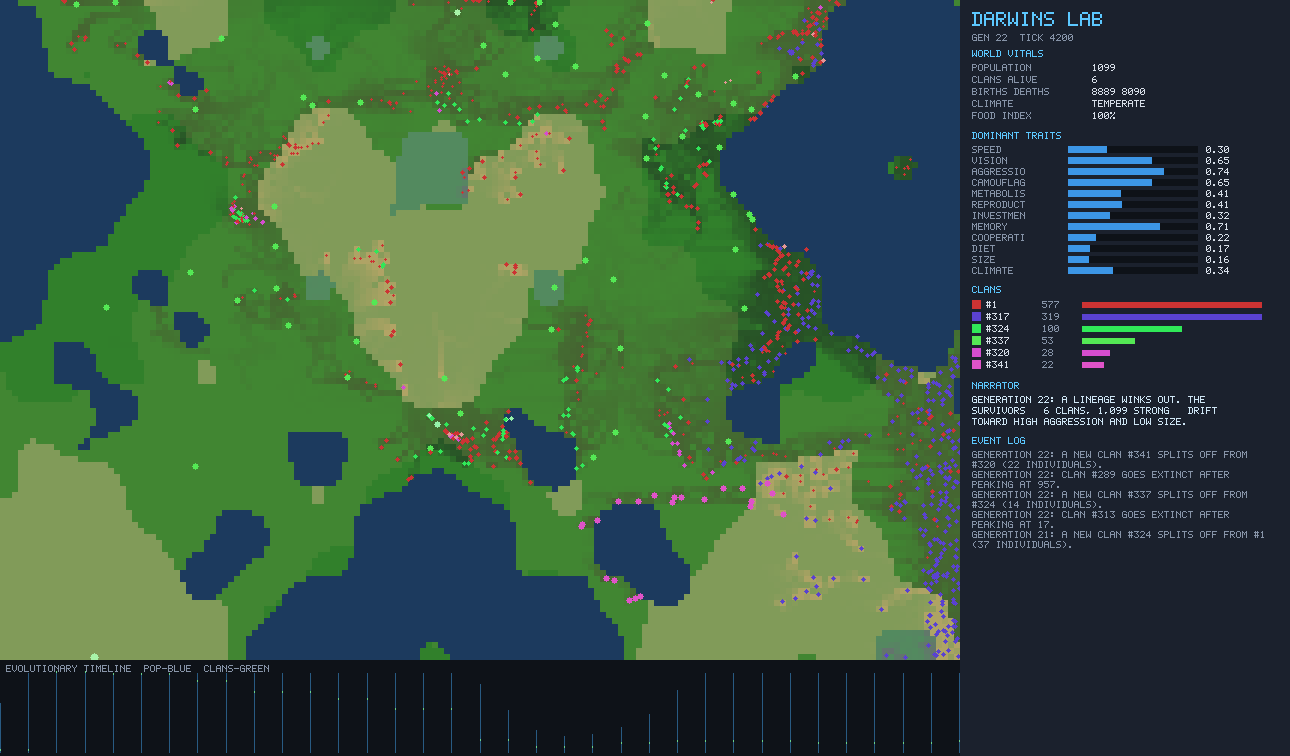
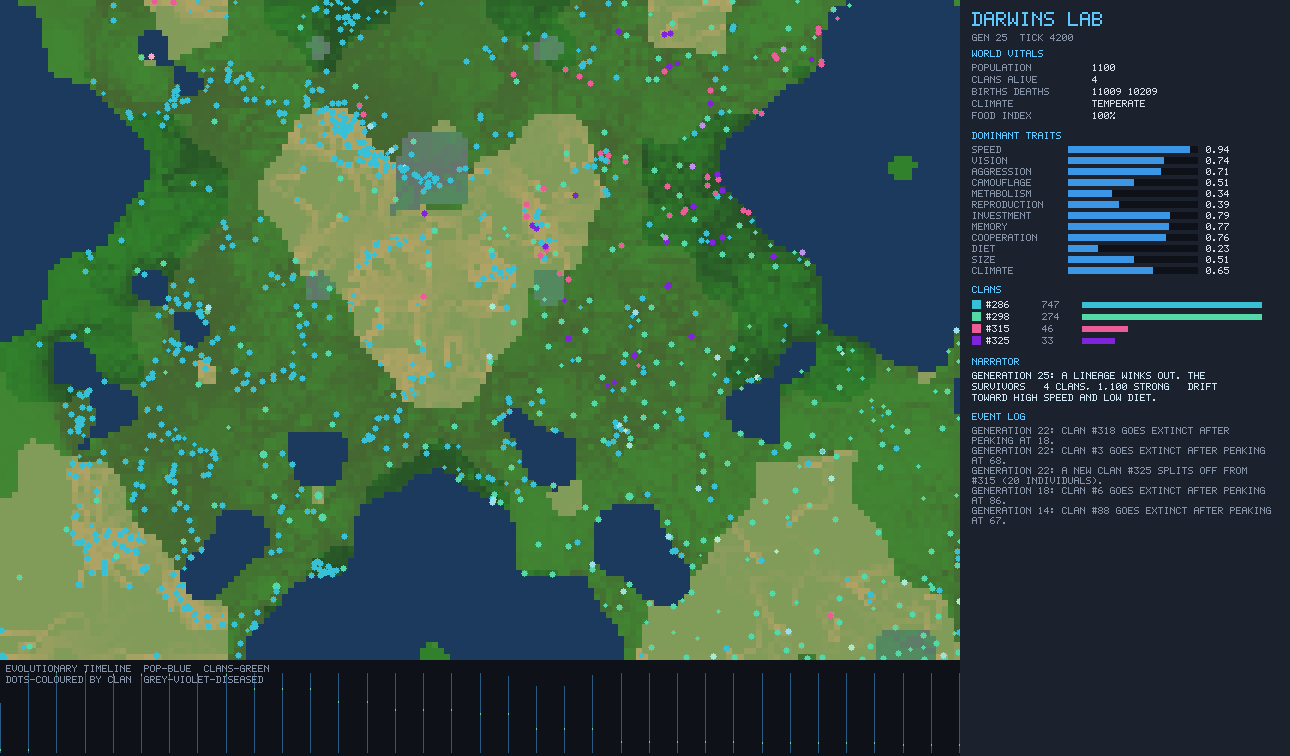
Make aggression a selected trait + add clan phylogeny panel
Aggression now has a real cost (metabolic burn) and real payoffs
(standing ground vs predators, wounding failed attackers, winning
contested food), so it is driven by selection — visibly low without
predators and rising under predation — instead of neutral drift.

Adds a Clan Phylogeny panel: an interactive family tree of lineages
plotted by birth time, living clans bright and extinct ones faded.

diff --git a/src/ui/Phylogeny.tsx b/src/ui/Phylogeny.tsx
@@ -1,0 +1,143 @@
+import { useMemo } from "react";
+import { useLab } from "../store";
+import type { Species } from "../sim/types";
+
+interface Node {
+  sp: Species;
+  children: Node[];
+  row: number;
+}
+
+/**
+ * The clan family tree. Each clan is plotted by birth time (x) with parent→
+ * child branches; living clans glow, extinct ones fade. This is the "lineages
+ * branch, dominate, and die out" story made literal.
+ */
+export function Phylogeny() {
+  const speciesById = useLab((s) => s.snapshot?.speciesById);
+  const tick = useLab((s) => s.snapshot?.stats.tick ?? 1);
+  const select = useLab((s) => s.select);
+
+  const { nodes, links, W, H, t0 } = useMemo(() => {
+    const all = Object.values(speciesById ?? {});
+    // Keep clans that actually mattered, so the tree stays legible.
+    const keep = all.filter((s) => s.peakPopulation >= 12);
+    const byId = new Map(keep.map((s) => [s.id, s]));
+    const nodeById = new Map<number, Node>();
+    for (const sp of keep) nodeById.set(sp.id, { sp, children: [], row: 0 });
+    const roots: Node[] = [];
+    for (const n of nodeById.values()) {
+      const p = n.sp.parentId != null ? nodeById.get(n.sp.parentId) : undefined;
+      if (p && byId.has(n.sp.parentId!)) p.children.push(n);
+      else roots.push(n);
+    }
+
+    let row = 0;
+    const assign = (n: Node) => {
+      n.children.sort((a, b) => a.sp.bornTick - b.sp.bornTick);
+      if (n.children.length === 0) {
+        n.row = row++;
+        return;
+      }
+      n.children.forEach(assign);
+      n.row = n.children.reduce((s, c) => s + c.row, 0) / n.children.length;
+    };
+    roots.sort((a, b) => a.sp.bornTick - b.sp.bornTick);
+    roots.forEach(assign);
+
+    const t0 = Math.min(...keep.map((s) => s.bornTick), 0);
+    const span = Math.max(1, tick - t0);
+    const W = 320;
+    const rowH = 16;
+    const H = Math.max(40, row * rowH + 16);
+    const x = (t: number) => 6 + ((t - t0) / span) * (W - 14);
+    const y = (r: number) => 10 + r * rowH;
+
+    const nodes = [...nodeById.values()].map((n) => ({
+      id: n.sp.id,
+      color: n.sp.color,
+      alive: n.sp.extinctTick === undefined && n.sp.population > 0,
+      x1: x(n.sp.bornTick),
+      x2: x(n.sp.extinctTick ?? tick),
+      y: y(n.row),
+      pop: n.sp.population,
+      peak: n.sp.peakPopulation,
+    }));
+    const links: { x1: number; y1: number; x2: number; y2: number; color: string }[] = [];
+    for (const n of nodeById.values()) {
+      for (const ch of n.children) {
+        links.push({
+          x1: x(n.sp.bornTick),
+          y1: y(n.row),
+          x2: x(ch.sp.bornTick),
+          y2: y(ch.row),
+          color: ch.sp.color,
+        });
+      }
+    }
+    return { nodes, links, W, H, t0 };
+  }, [speciesById, tick]);
+
+  if (nodes.length === 0) {
+    return (
+      <div className="card muted tiny">Phylogeny — clans appear here as they diverge…</div>
+    );
+  }
+
+  return (
+    <div className="card">
+      <h3>Clan Phylogeny</h3>
+      <div className="tiny muted" style={{ marginBottom: 6 }}>
+        {nodes.length} notable lineages · left = older · bright = alive
+      </div>
+      <svg
+        viewBox={`0 0 ${W} ${H}`}
+        style={{ width: "100%", height: Math.min(260, H), display: "block" }}
+      >
+        {links.map((l, i) => (
+          <path
+            key={i}
+            d={`M${l.x1},${l.y1} C${(l.x1 + l.x2) / 2},${l.y1} ${(l.x1 + l.x2) / 2},${l.y2} ${l.x2},${l.y2}`}
+            fill="none"
+            stroke={l.color}
+            strokeOpacity={0.45}
+            strokeWidth={1}
+          />
+        ))}
+        {nodes.map((n) => (
+          <g key={n.id} style={{ cursor: "default" }}>
+            <line
+              x1={n.x1}
+              y1={n.y}
+              x2={n.x2}
+              y2={n.y}
+              stroke={n.color}
+              strokeWidth={n.alive ? 2.4 : 1.2}
+              strokeOpacity={n.alive ? 1 : 0.4}
+            />
+            <circle
+              cx={n.x1}
+              cy={n.y}
+              r={2.4}
+              fill={n.color}
+              fillOpacity={n.alive ? 1 : 0.5}
+            />
+            {n.alive && (
+              <circle cx={n.x2} cy={n.y} r={Math.min(5, 2 + n.pop / 120)} fill={n.color}>
+                <title>
+                  Clan #{n.id} — {n.pop} alive (peaked {n.peak})
+                </title>
+              </circle>
+            )}
+          </g>
+        ))}
+      </svg>
+      <div className="legend" style={{ marginTop: 4 }}>
+        <span className="muted">node size = current population · t₀ = tick {t0}</span>
+        <button className="btn tiny" onClick={() => select(null)}>
+          clear selection
+        </button>
+      </div>
+    </div>
+  );
+}

diff --git a/src/sim/simulation.ts b/src/sim/simulation.ts
@@ -217,9 +217,13 @@ export class Simulation {
       const oCarn = o.genome.diet > 0.55;
 
       if (oCarn && o.genome.size >= g.size * 0.85 && d < threatDist) {
-        // A predator big enough to matter — flee from it.
+        // A predator big enough to matter. Most prey flee — but a big,
+        // aggressive creature may instead stand its ground and fight back,
+        // which is what makes aggression a real (costly) strategy under
+        // predation rather than neutral drift.
         threatDist = d;
-        if (g.aggression < 0.7 || isCarn === false) {
+        const stand = g.aggression * g.size;
+        if (stand < 0.32 || this.rng.next() > stand) {
           targetX = c.x - dx;
           targetY = c.y - dy;
         }
@@ -295,6 +299,7 @@ export class Simulation {
       g.metabolism * 0.16 +
       g.speed * 0.05 +
       g.size * 0.06 +
+      g.aggression * 0.035 + // aggression is metabolically expensive to keep
       climateMiss * 0.14 +
       (c.sick > 0 ? 0.12 : 0);
     c.energy -= burn;
@@ -304,7 +309,10 @@ export class Simulation {
       const fi = w.idxAt(c.x, c.y);
       const avail = w.food[fi];
       if (avail > 0.05) {
-        const bite = Math.min(avail, 0.6 + g.size * 0.5);
+        // In a crowded patch the more aggressive creature wins the scrum and
+        // takes a bigger bite — aggression's payoff when food is contested.
+        const contest = crowding > 2 ? 0.55 + g.aggression * 0.6 : 1;
+        const bite = Math.min(avail, (0.6 + g.size * 0.5) * contest);
         w.food[fi] -= bite;
         c.energy += bite * (1 - g.diet) * 1.75;
         c.memX = c.x;
@@ -318,10 +326,17 @@ export class Simulation {
     if (isCarn && preyRef && preyDist < 6) {
       const prey = preyRef as Creature;
       const atk = g.aggression * 0.6 + g.size * 0.4 + g.speed * 0.2;
-      const def = prey.genome.camouflage * 0.7 + prey.genome.speed * 0.3 + prey.genome.size * 0.2;
+      const def =
+        prey.genome.camouflage * 0.7 +
+        prey.genome.speed * 0.3 +
+        prey.genome.size * 0.2 +
+        prey.genome.aggression * prey.genome.size * 0.5; // fights back
       if (this.rng.next() < atk / (atk + def + 0.15)) {
         c.energy += 22 + prey.genome.size * 26 + prey.energy * 0.3;
         prey.energy = -1; // marked dead; removed when its turn comes
+      } else {
+        // A failed strike on a big, aggressive defender wounds the predator.
+        c.energy -= 6 + prey.genome.aggression * prey.genome.size * 22;
       }
     }
 

diff --git a/src/App.tsx b/src/App.tsx
@@ -5,6 +5,7 @@ import { Controls } from "./ui/Controls";
 import { CreatureInspector } from "./ui/CreatureInspector";
 import { EventsLog } from "./ui/EventsLog";
 import { NarratorPanel } from "./ui/NarratorPanel";
+import { Phylogeny } from "./ui/Phylogeny";
 import { ShockPanel } from "./ui/ShockPanel";
 import { StatsPanel } from "./ui/StatsPanel";
 import { Timeline } from "./ui/Timeline";
@@ -43,6 +44,7 @@ export function App() {
         <NarratorPanel />
         <StatsPanel />
         <ShockPanel />
+        <Phylogeny />
         <CreatureInspector />
         <EventsLog />
       </aside>
